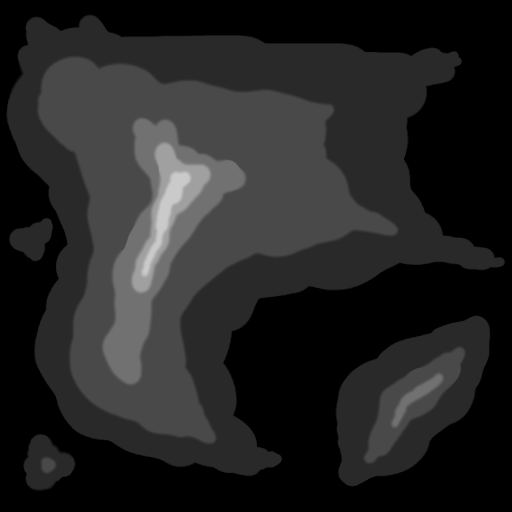
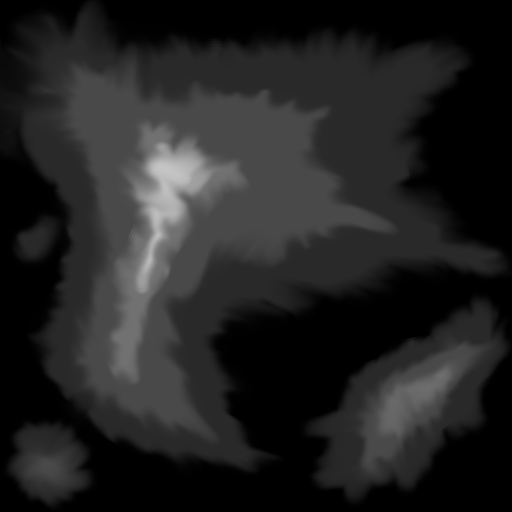
Small refactorings

diff --git a/src/index.js b/src/index.js
@@ -5,11 +5,12 @@ import { HEIGHTMAP_TILE_SCALE, loadTerrain, randomPositionOnTerrain } from "./te
 import { CameraControls } from "./camera-controls";
 import { Doodads } from "/doodads.js";
 import { Controls } from "./controls";
+import { createFrogs, updateFrogs } from "./frogs";
 
 const scene = new THREE.Scene();
 
-const ambientLight = new THREE.AmbientLight(0x111111);
-scene.add(ambientLight);
+const hemLight = new THREE.HemisphereLight();
+scene.add(hemLight)
 
 const renderer = new THREE.WebGLRenderer();
 renderer.setSize(window.innerWidth, window.innerHeight);
@@ -26,7 +27,7 @@ camControl.enabled = false;
 
 // Load assets
 const [textures, models] = await loadAssets();
-const [terrain, heightmap] = await loadTerrain("heightmap2.png");
+const [terrain, heightmap] = await loadTerrain("heightmap.png");
 
 console.log(textures, models);
 
@@ -39,54 +40,25 @@ document.querySelector("#loading").classList.add("invisible");
 terrain.material = new THREE.MeshBasicMaterial({ map: textures["assets/rock.jpg"] });
 scene.add(terrain);
 
-const texture = textures["assets/frog.png"];
-const frogMaterial = new THREE.MeshBasicMaterial({ map: texture });
-frogMaterial.transparent = true;
-const frogMaterialList = [frogMaterial, undefined, undefined, undefined, undefined, undefined];
-
 // TODO: Refactor skybox + water mesh into 'basic env setup function'
 const skybox = makeSkybox(textures, "assets/envmap_miramar", "miramar", "png");
 scene.add(skybox);
 
 // TODO: Replace with sth that textures better, maybe another indexed buffer geometry.
 // TODO: We could use even sin and cos to simulate small waves in a custom vertex shader
-const water = new THREE.Mesh(new THREE.PlaneBufferGeometry(16, 16),
+const water = new THREE.Mesh(new THREE.PlaneBufferGeometry(64, 64),
     new THREE.MeshBasicMaterial({ map: textures["assets/water.png"], transparent: true, opacity: 0.65 }));
 water.position.y = 0.6;
 water.rotation.x = -Math.PI / 2;
 scene.add(water);
 
 // TODO: Create objects based on config/map file or sth
-// Add multiple 3d froggos
-const frogPosRot = [
-    [[2.5, 0.7, -0.5], [2 / 3 * Math.PI]],
-    [[-2.6, 0.7, -0.6], [-2 / 3 * Math.PI]],
-    [[-4, 0.7, 1], [-Math.PI / 2]],
-    [[-4, 1.65, -2], [-2 / 3 * Math.PI]],
-    [[0, 1.65, -2.7], [Math.PI]],
-    [[4.5, 1.65, -2], [2 / 3 * Math.PI]],
-];
+createFrogs(textures, models, scene);
 
 let container = new THREE.Group();
 container.position.set(-(heightmap.width * HEIGHTMAP_TILE_SCALE * 0.5), 0, -(heightmap.height * HEIGHTMAP_TILE_SCALE * 0.5));
 scene.add(container);
 
-const frog3d = new Doodads(models["assets/froggo.glb"].geometry, textures["assets/froggo.png"], scene);
-for (let i = 0; i < frogPosRot.length; ++i) {
-    frog3d.add(new THREE.Vector3(...frogPosRot[i][0]), frogPosRot[i][1], 0.5);
-    // Note: This is relatively cheap, even when called every frame
-    frog3d.setNeedsUpdate(true);
-}
-
-function create2dFrog(geom, mat, pos, rot, scale, vel) {
-    const froggo = new THREE.Mesh(geom, mat);
-    froggo.position.set(pos[0], pos[1], pos[2]);
-    froggo.rotation.set(rot[0], rot[1], rot[2]);
-    froggo.scale.set(scale[0], scale[1], scale[2]);
-    froggo.baseVelocity = vel;
-    froggo.velocity = froggo.baseVelocity;
-    return froggo;
-}
 
 // Create random trees
 const trees = new Doodads(models["assets/tree.glb"].geometry, textures["assets/ImphenziaPalette01.png"], container);
@@ -101,16 +73,6 @@ controls.onKeyUp("t", () => {
     createTree(randomPositionOnTerrain(heightmap));
 });
 
-// 2d frogs jumping in the background
-const geometry = new THREE.BoxGeometry();
-const froggo = create2dFrog(geometry, frogMaterialList, [-0.9, 1, -7], [0, -Math.PI / 2, 0], [1, 1, 1], 0.015);
-scene.add(froggo);
-const froggo2 = create2dFrog(geometry, frogMaterialList, [-8, 1, -5], [0, -Math.PI / 4, 0], [2, 2, 2], 0.02);
-scene.add(froggo2);
-const froggo3 = create2dFrog(geometry, frogMaterialList, [3.5, 1, -7], [0, 3*Math.PI / 2, 0], [1.2, 1.2, 1.2], 0.017);
-scene.add(froggo3);
-const froggos = [froggo, froggo2, froggo3];
-
 
 // TODO: Refactor into main loop + update func for certain types of game objects
 let lastframe = performance.now();
@@ -124,16 +86,7 @@ function animate() {
     // Update camera
     camControl.update(dt);
 
-    // Update jumping frogs
-    for (const f of froggos) {
-        f.position.y += f.velocity;
-        if (f.position.y > 3.5) {
-            f.velocity -= 0.05;
-        }
-        if (f.position.y <= 1.0) {
-            f.velocity = f.baseVelocity;
-        }
-    }
+    updateFrogs();
 
     requestAnimationFrame(animate);
     renderer.render(scene, camera);
@@ -150,9 +103,6 @@ window.addEventListener("resize", () => {
 
 // TODOs/Ideas:
 // - Terrain texturing! (this is going to be hard)
-// - Camera rotation, zoom?
-// - More realistic jumping for the frogs
 // - Allow update logic to be implemented more easily
-// - Some sort of scene graph? Do we need that?
 // - Use webpack to reduce distribution size
 //   - Bonus points if the loading screen only shows the site on wednesdays

diff --git a/src/frogs.js b/src/frogs.js
@@ -1,0 +1,70 @@
+import * as THREE from "three";
+
+import { Doodads } from "./doodads";
+
+let froggos = [];
+
+function createFrogs(textures, models, scene) {
+    const texture = textures["assets/frog.png"];
+    const frogMaterial = new THREE.MeshBasicMaterial({ map: texture });
+    frogMaterial.transparent = true;
+    const frogMaterialList = [frogMaterial, undefined, undefined, undefined, undefined, undefined];
+
+    
+    // 2d frogs jumping in the background
+    const geometry = new THREE.BoxGeometry();
+    const froggo = create2dFrog(geometry, frogMaterialList, [-0.9, 1, -7], [0, -Math.PI / 2, 0], [1, 1, 1], 0.015);
+    scene.add(froggo);
+    const froggo2 = create2dFrog(geometry, frogMaterialList, [-8, 1, -5], [0, -Math.PI / 4, 0], [2, 2, 2], 0.02);
+    scene.add(froggo2);
+    const froggo3 = create2dFrog(geometry, frogMaterialList, [3.5, 1, -7], [0, 3*Math.PI / 2, 0], [1.2, 1.2, 1.2], 0.017);
+    scene.add(froggo3);
+    froggos.push(froggo, froggo2, froggo3);
+    
+    // Add multiple 3d froggos
+    const frogPosRot = [
+        [[2.5, 0.7, -0.5], [2 / 3 * Math.PI]],
+        [[-2.6, 0.7, -0.6], [-2 / 3 * Math.PI]],
+        [[-4, 0.7, 1], [-Math.PI / 2]],
+        [[-4, 1.65, -2], [-2 / 3 * Math.PI]],
+        [[0, 1.65, -2.7], [Math.PI]],
+        [[4.5, 1.65, -2], [2 / 3 * Math.PI]],
+    ];
+
+    const frog3d = new Doodads(models["assets/froggo.glb"].geometry, textures["assets/froggo.png"], scene);
+    for (let i = 0; i < frogPosRot.length; ++i) {
+        frog3d.add(new THREE.Vector3(...frogPosRot[i][0]), frogPosRot[i][1], 0.5);
+        // Note: This is relatively cheap, even when called every frame
+        frog3d.setNeedsUpdate(true);
+    }
+
+    function create2dFrog(geom, mat, pos, rot, scale, vel) {
+        const froggo = new THREE.Mesh(geom, mat);
+        froggo.position.set(pos[0], pos[1], pos[2]);
+        froggo.rotation.set(rot[0], rot[1], rot[2]);
+        froggo.scale.set(scale[0], scale[1], scale[2]);
+        froggo.baseVelocity = vel;
+        froggo.velocity = froggo.baseVelocity;
+        return froggo;
+    }
+
+    
+}
+
+function updateFrogs() {
+    // Update jumping frogs
+    for (const f of froggos) {
+        f.position.y += f.velocity;
+        if (f.position.y > 3.5) {
+            f.velocity -= 0.05;
+        }
+        if (f.position.y <= 1.0) {
+            f.velocity = f.baseVelocity;
+        }
+    }
+}
+
+export {
+    createFrogs,
+    updateFrogs,
+}
